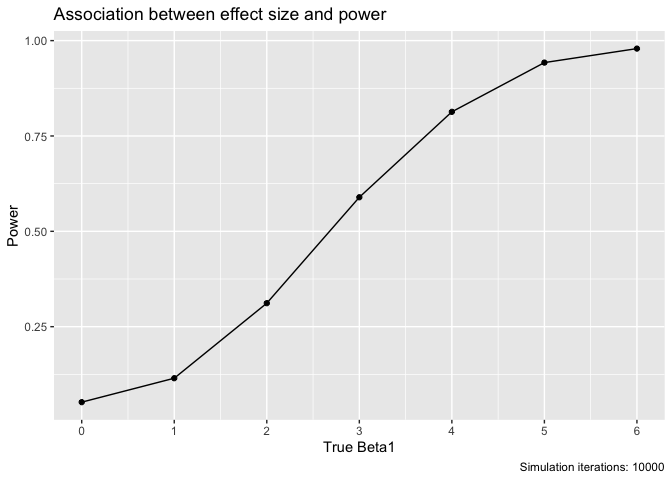
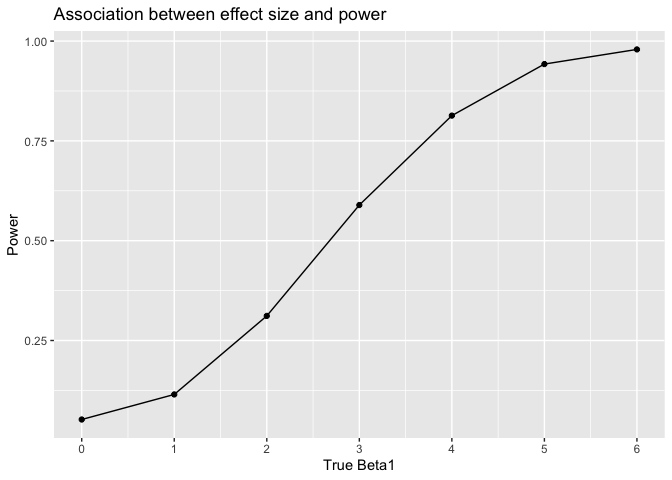
final version

diff --git a/HW5.md b/HW5.md
@@ -19,6 +19,8 @@ library(tidyverse)
     ## ✖ dplyr::lag()    masks stats::lag()
 
 ``` r
+library(dplyr)
+
 set.seed(10)
 
 iris_with_missing = iris %>% 
@@ -26,7 +28,7 @@ iris_with_missing = iris %>%
   mutate(Species = as.character(Species)) %>% 
   janitor:: clean_names() 
 
-view(iris_with_missing)
+view(iris_with_missing) 
 ```
 
 ##### Problem 1
@@ -40,8 +42,10 @@ iris_with_missing_mean = function(x){
     x = ifelse(is.na(x), "virginica", x)
   }
 }
-iris_with_missing2 = map_df(.x = iris_with_missing, ~ iris_with_missing_mean(.x))
-view(iris_with_missing2)
+iris_with_missing2 = map_df(.x = iris_with_missing, ~ iris_with_missing_mean(.x)) %>% 
+#view(iris_with_missing2) 
+  head(10) %>% 
+  knitr::kable()
 ```
 
 ##### Problem 2
@@ -300,7 +304,9 @@ data %>%
   geom_path() 
 ```
 
-![](HW5_files/figure-markdown_github/Problem2-1.png) \#\#\#\#\#Problem3
+![](HW5_files/figure-markdown_github/Problem2-1.png)
+
+##### Problem3
 
 ``` r
 library(broom)
@@ -370,25 +376,86 @@ for (i in 1:6) {
 #view(tempList)
 
 simulation_result = 
-  tibble(betal1s = c(0:6),
+  tibble(beta1s = c(0:6),
          proportion = c(tempList[[1]],tempList[[2]],tempList[[3]],tempList[[4]],tempList[[5]],tempList[[6]],tempList[[7]]))
-
-simulation_result = as.data.frame(simulation_result)
-simulation_result = simulation_result %>%
-  mutate(betal1s = as.numeric(betal1s))
 #view(simulation_result)
 
-
 simulation_result %>%
-  ggplot(aes(x=betal1s, y = proportion)) +
+  ggplot(aes(x=beta1s, y = proportion)) +
   geom_point() +
   geom_line()+
   scale_x_continuous(breaks = seq(0, 6, by=1)) +
   labs(
     x = "True Beta1", y = "Power",
-    title = "Association between effect size and power",
-    caption = "Simulation iterations: 10000"
+    title = "Association between effect size and power"
   )
 ```
 
 ![](HW5_files/figure-markdown_github/unnamed-chunk-3-1.png)
+
+``` r
+average_estimate = function(x) {
+  temp = 
+  x %>% 
+  mutate(
+    average_beta1_hat = mean(beta1_hat) 
+  ) %>%
+  select(average_beta1_hat) %>%
+  distinct()
+  
+  temp$average_beta1_hat
+}
+tempList2 = vector("list", 7)
+tempList2[[1]] = average_estimate(sim_result)
+for (i in 1:6) {
+  tempList2[[i+1]] = average_estimate(sim_results[[i]])
+}
+#view(tempList2)
+
+simulation_result2 = 
+  tibble(beta1s = c(0:6),
+         average_beta1_hat = c(tempList2[[1]],tempList2[[2]],tempList2[[3]],tempList2[[4]],tempList2[[5]],tempList2[[6]],tempList2[[7]]))
+view(simulation_result2)
+```
+
+``` r
+average_estimate_rej = function(x) {
+  temp = 
+  x %>% 
+  filter(pvalue <= 0.05) %>% 
+  mutate(
+    average_beta1_hat = mean(beta1_hat) 
+  ) %>%
+  select(average_beta1_hat) %>%
+  distinct()
+  
+  temp$average_beta1_hat
+}
+tempList3 = vector("list", 7)
+tempList3[[1]] = average_estimate_rej(sim_result)
+for (i in 1:6) {
+  tempList3[[i+1]] = average_estimate_rej(sim_results[[i]])
+}
+#view(tempList3)
+
+simulation_result3 = 
+  tibble(beta1s = c(0:6),
+         average_beta1_hat = c(tempList3[[1]],tempList3[[2]],tempList3[[3]],tempList3[[4]],tempList3[[5]],tempList3[[6]],tempList3[[7]]))
+view(simulation_result3)
+```
+
+``` r
+ggplot(simulation_result2, aes(x=beta1s)) +
+  geom_point(data = simulation_result2, aes(y=average_beta1_hat)) +
+  geom_point(data = simulation_result3, aes(y=average_beta1_hat)) +
+  geom_line(data = simulation_result2, aes(y=average_beta1_hat, color = 'All samples')) +
+  geom_line(data = simulation_result3, aes(y=average_beta1_hat, color = 'Samples with the null hypothesis rejected')) +
+  scale_x_continuous(breaks = seq(0, 6, by = 1)) +
+  scale_y_continuous(breaks = seq(0, 6, by = 0.2)) +
+  labs(
+    x= "True Beta1", y = "Average Beta1 Estimate",
+    title = "Association between average beta1 estimate and true beta1"
+  )
+```
+
+![](HW5_files/figure-markdown_github/unnamed-chunk-6-1.png)
